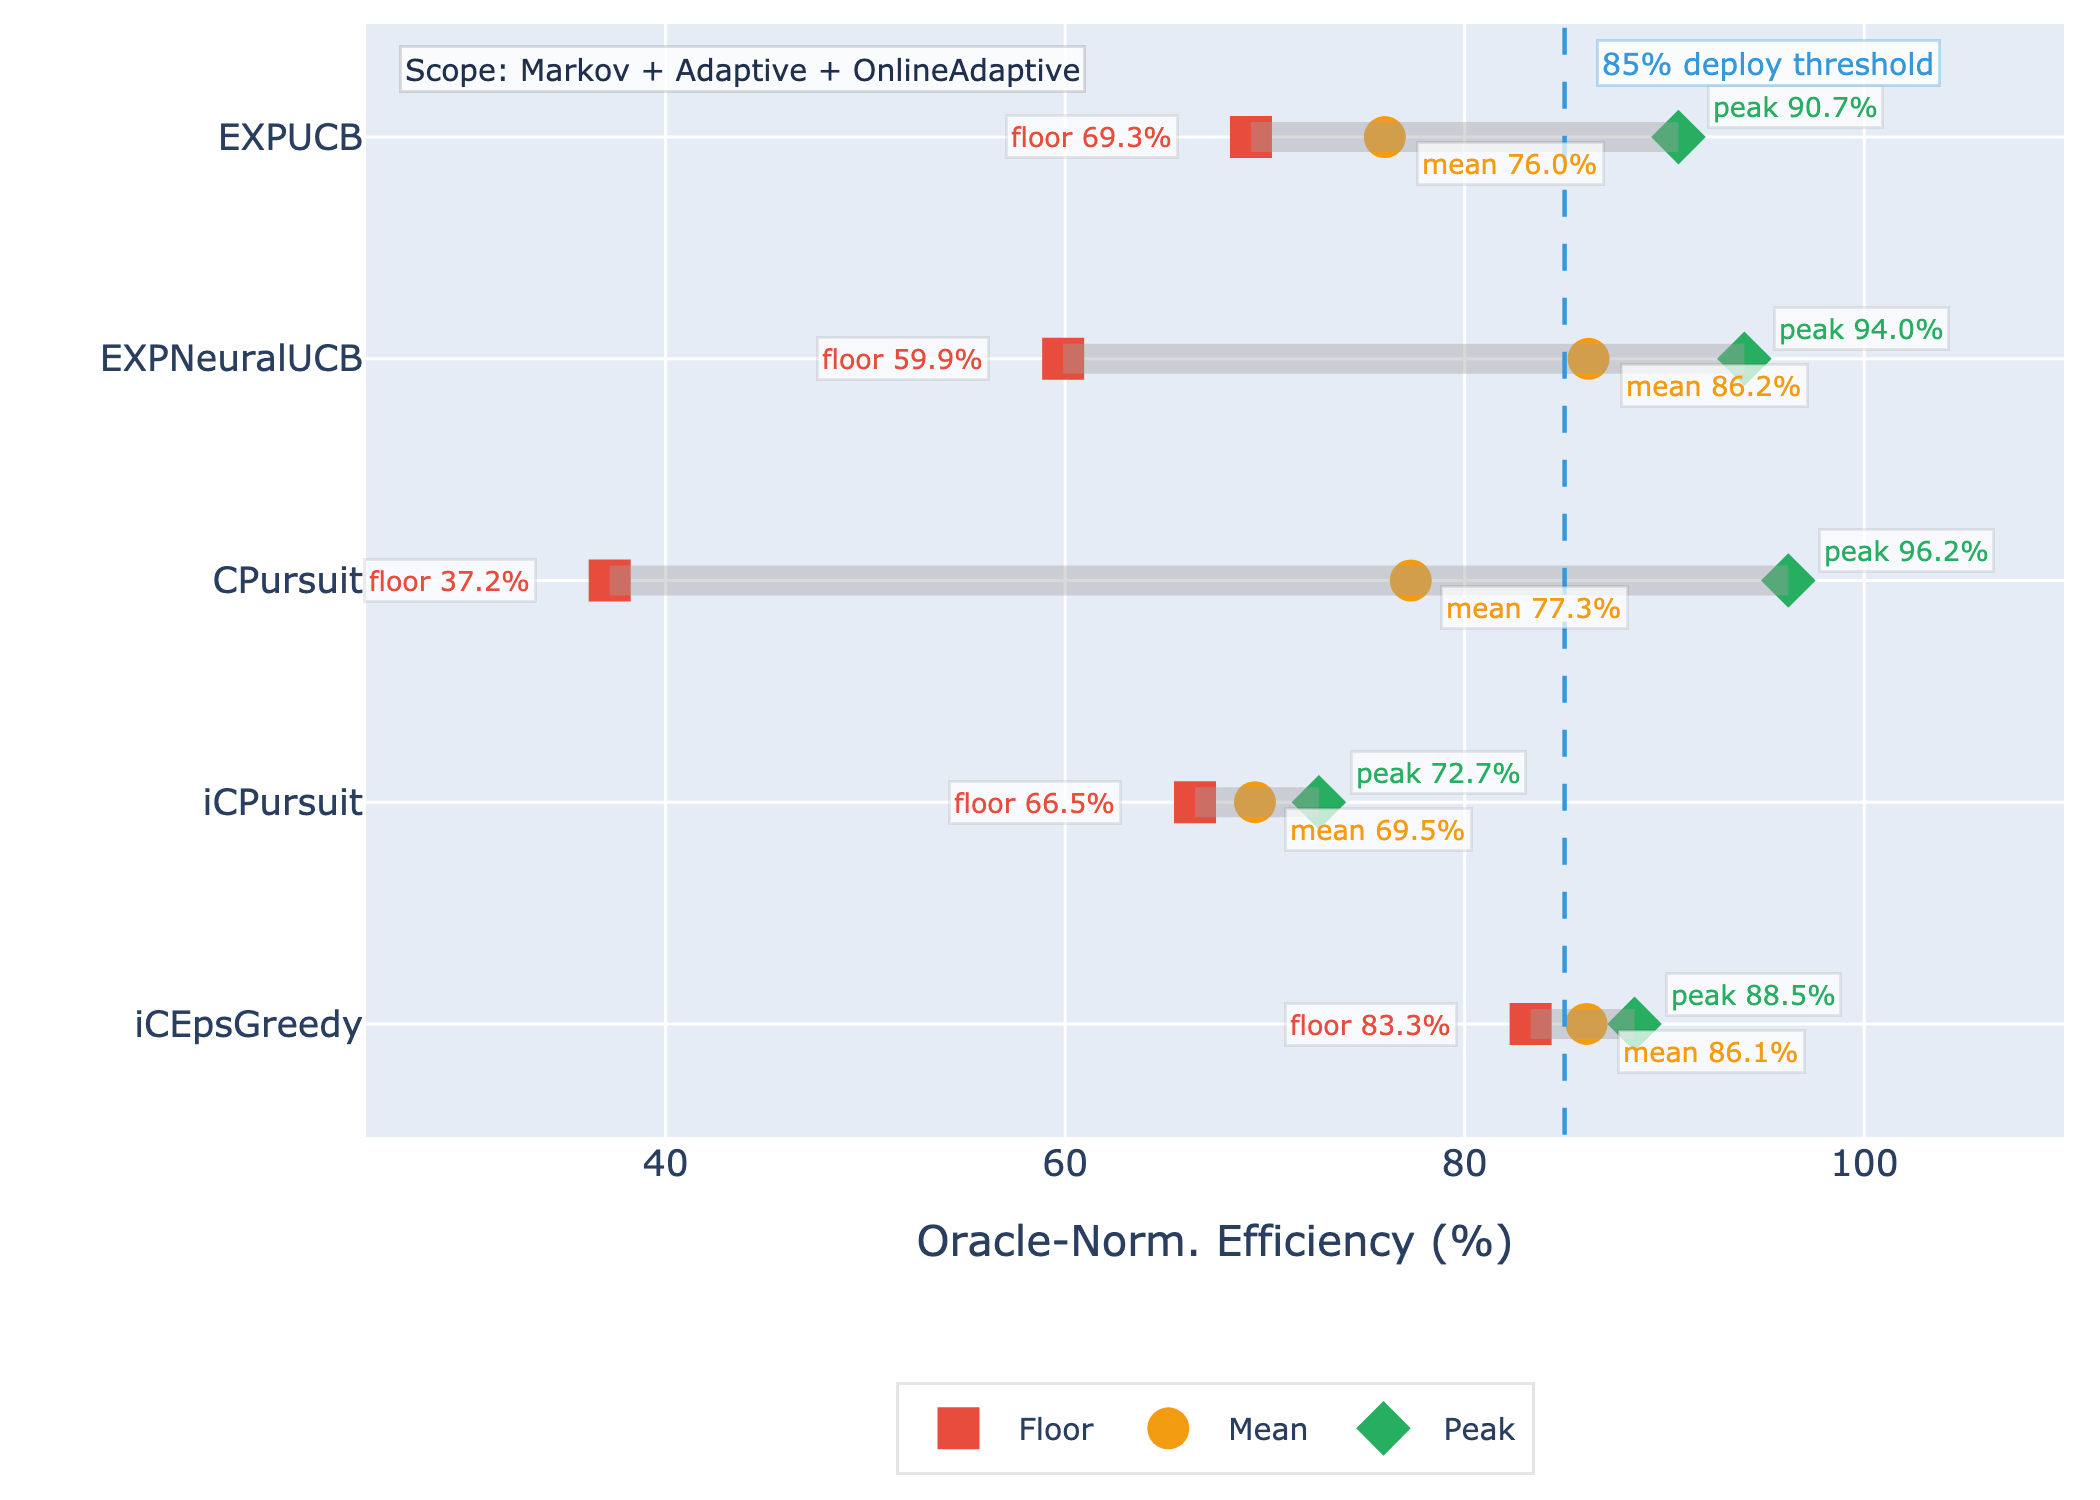
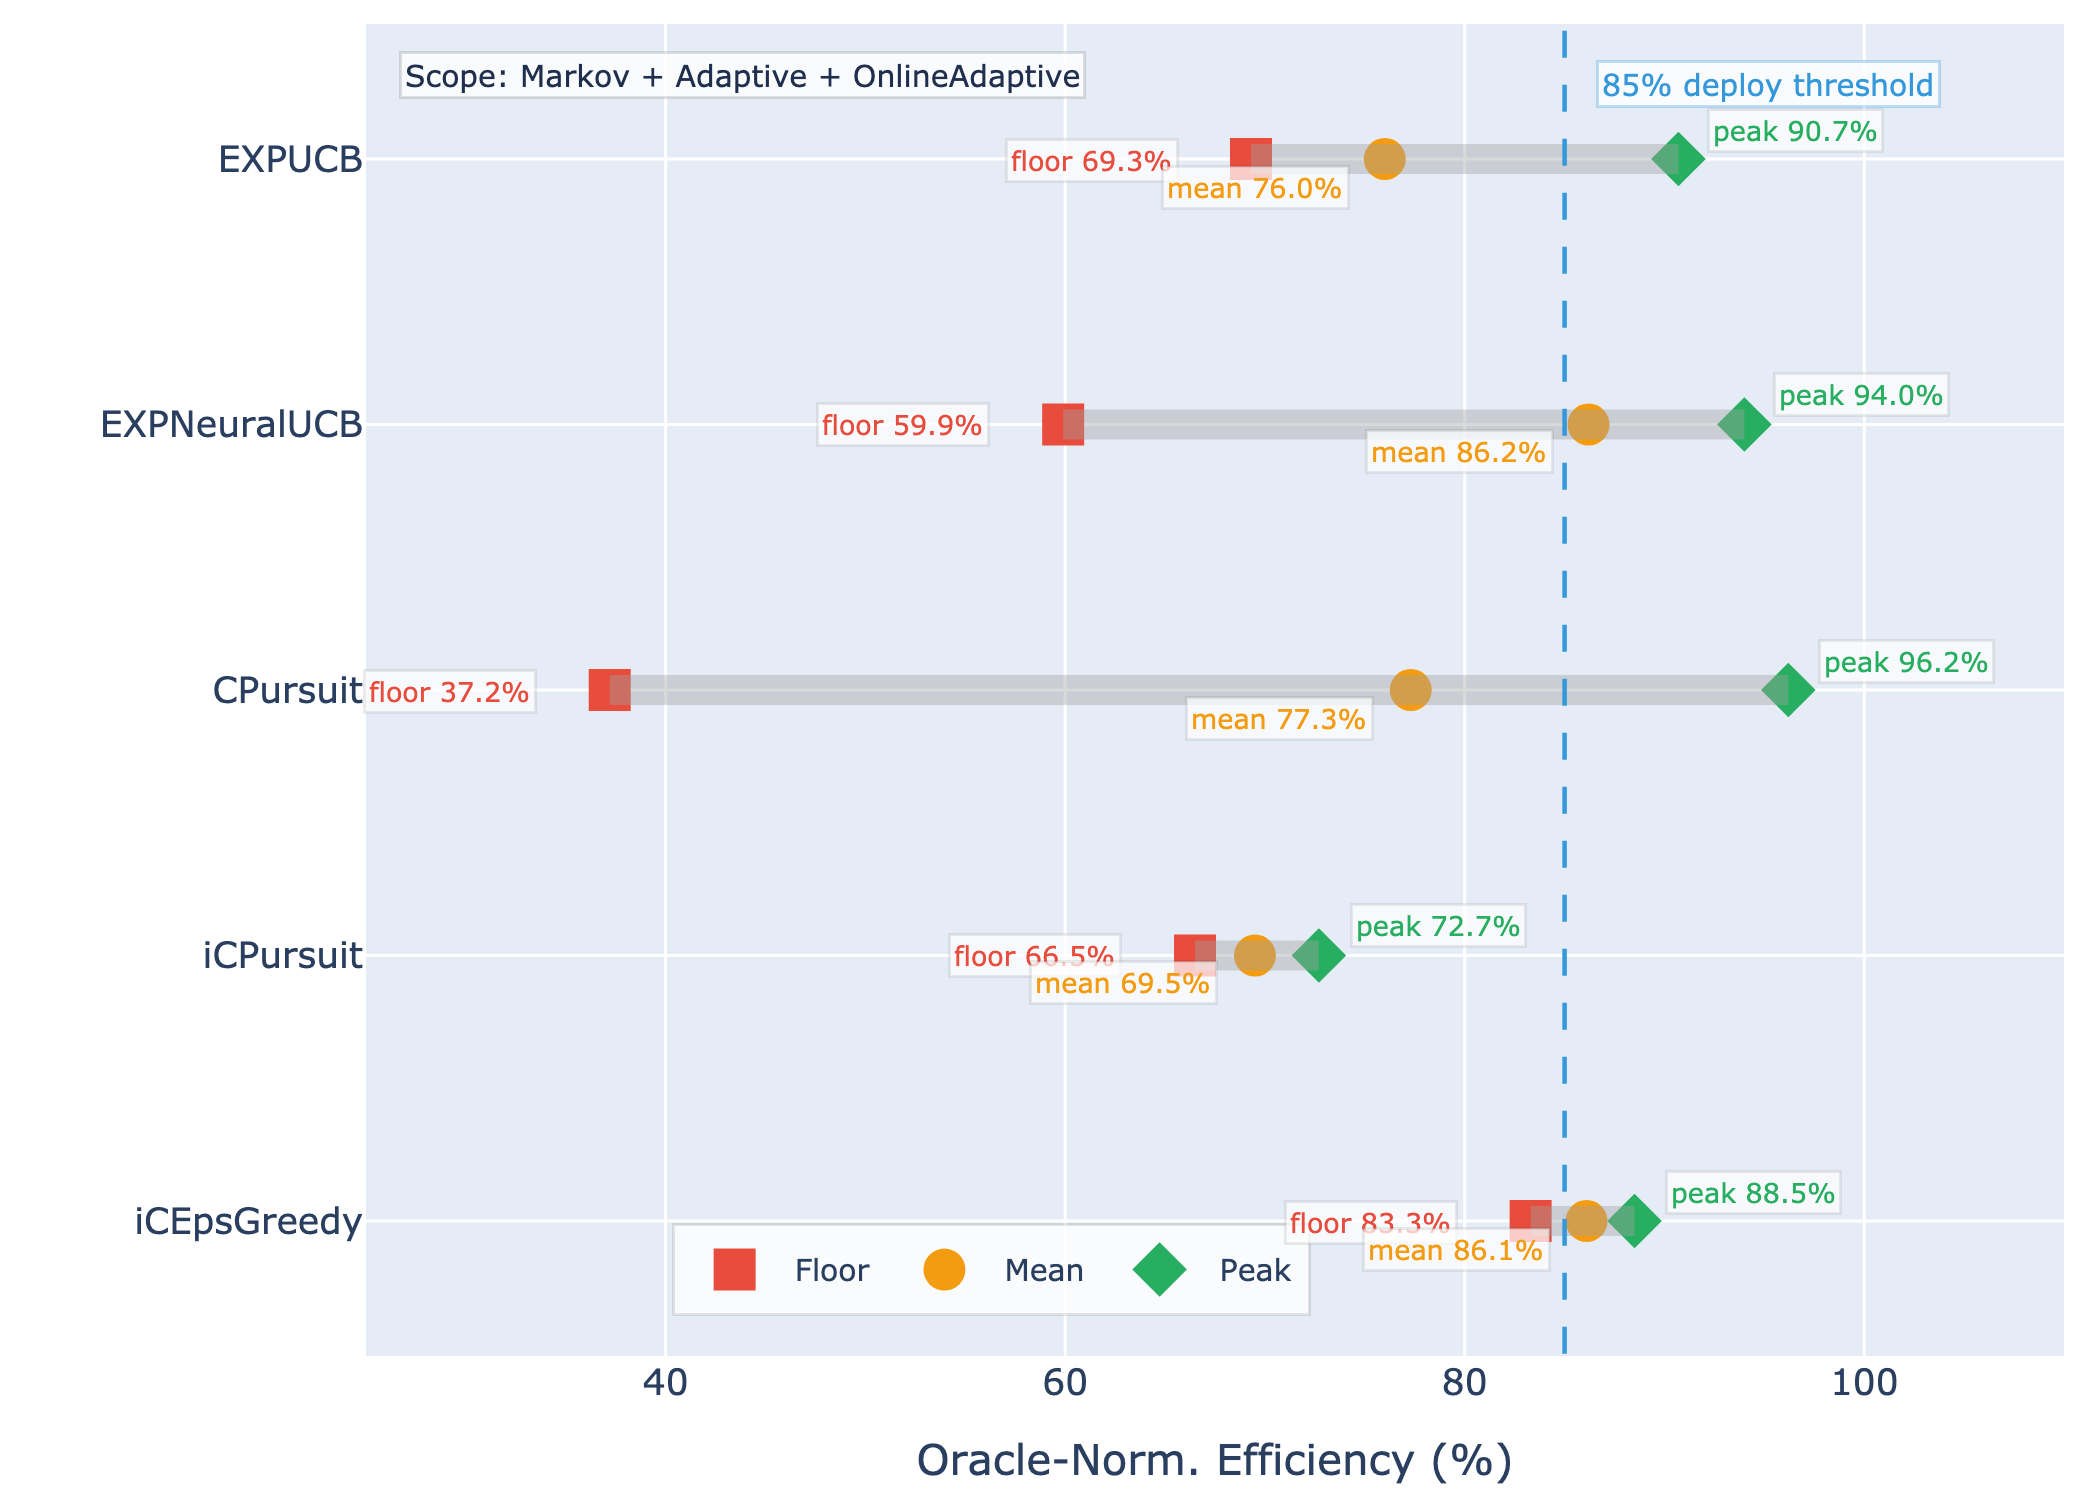
Surgically correct ICNP figure labels

diff --git a/figures/icnp-exported-assets/build_G8_G9.py b/figures/icnp-exported-assets/build_G8_G9.py
@@ -34,6 +34,11 @@ OUT_PANEL_D = (
     / "icnp"
     / "ICNP-CODE-033_g9_network_gap_analysis_panel_d_rq1_algorithm_tier_separation_stochastic.png"
 )
+OUT_PANEL_C = (
+    SCRIPT_DIR.parent
+    / "icnp"
+    / "ICNP-CODE-032_g9_network_gap_analysis_panel_c_oracle_gap_context_vs_exp3_by_scenario_c.png"
+)
 OUT_PANEL_F = (
     SCRIPT_DIR.parent
     / "icnp"
@@ -150,6 +155,10 @@ def path_p(hops, total_q, pe=1.5e-4):
 
 def panel_label(ax, letter, title, fs=11):
     ax.text(-0.10,1.07,letter,transform=ax.transAxes,fontsize=14,fontweight='bold',va='top')
+
+
+def panel_subtitle(ax, title):
+    ax.set_title(title, fontsize=10.4, fontweight='bold', pad=8)
 
 
 def label_box_medians(ax, positions, datasets, colors, *, dy=0.6):
@@ -328,6 +337,38 @@ def draw_scenario_penalty_panel(ax, *, include_panel_label=True):
         panel_label(ax,'G','Scenario Penalty vs Baseline by Algorithm & Threat')
 
 
+def draw_oracle_gap_panel(ax, *, include_panel_label=True):
+    x3=np.arange(len(SCEN_ORDER)); w3=0.18
+    gap_pairs=[('Context(T)',[100-v for v in CTX_T],C['T']),
+               ('Context(Tb)',[100-v for v in CTX_TB],'#72b7b2'),
+               ('EXP3(T)',[100-v for v in EXP_T],C['EXP3']),
+               ('EXP3(Tb)',[100-v for v in EXP_TB],'#d4730a')]
+    for (lbl,gaps,col),off in zip(gap_pairs,[-1.5,-0.5,0.5,1.5]):
+        bars = ax.bar(x3+off*w3,gaps,width=w3*0.88,color=col,alpha=0.85,label=lbl,edgecolor='white',lw=0.6)
+        for bar, gap in zip(bars, gaps):
+            ax.text(
+                bar.get_x() + bar.get_width() / 2,
+                gap + 0.35,
+                f'{gap:.1f}',
+                ha='center',
+                va='bottom',
+                fontsize=6.6,
+                color='#111111',
+                fontweight='bold',
+                zorder=7,
+                bbox=dict(boxstyle='round,pad=0.08', facecolor='white', alpha=0.74, edgecolor='none'),
+            )
+    ax.axhline(15,color=C['THRESH'],ls='--',lw=1.2,alpha=0.7)
+    ax.set_xticks(x3); ax.set_xticklabels(SCEN_ORDER,fontsize=9,rotation=10,ha='right')
+    ax.set_ylabel('Oracle Gap (pp)')
+    ax.legend(fontsize=6.8,ncol=2,frameon=True,framealpha=0.88,loc='upper right',bbox_to_anchor=(0.98,0.92),columnspacing=0.9,handlelength=1.1)
+    ax.set_facecolor('#f9f9f9')
+    ax.text(0.02,0.82,'Context(T) cuts the Stochastic gap by 8.5 vs EXP3(T)',transform=ax.transAxes,ha='left',va='top',fontsize=8,color='#555',bbox=dict(boxstyle='round,pad=0.25',facecolor='white',alpha=0.75,edgecolor='none'))
+    ax.text(0.98,0.92,'Lower is better',transform=ax.transAxes,ha='right',va='top',fontsize=8,color='#555',bbox=dict(boxstyle='round,pad=0.25',facecolor='white',alpha=0.75,edgecolor='none'))
+    if include_panel_label:
+        panel_label(ax,'C','Oracle Gap: Context vs EXP3 by Scenario & Capacity')
+
+
 def draw_cross_testbed_panel(ax, *, include_panel_label=True):
     tl=list(TESTBED_EFF.keys()); tv=list(TESTBED_EFF.values())
     tc9=[C['P2'],C['P7'],C['P12'],C['P8']]
@@ -431,6 +472,7 @@ def build_G8():
     fam_handles=[mpatches.Patch(color=col,alpha=0.82,label=fam) for fam,col in zip(fams,fc)]
     axA.legend(handles=fam_handles,loc='upper right',ncol=2,frameon=True,framealpha=0.88,fontsize=8,title='Family')
     panel_label(axA,'A','Oracle-Gap Distribution by Model Family')
+    panel_subtitle(axA, 'Oracle-gap distribution')
 
     # B — grouped box: capacity paradox
     n=5; pos_T=[i*2.6+0.45 for i in range(n)]; pos_Tb=[i*2.6+1.15 for i in range(n)]
@@ -456,15 +498,15 @@ def build_G8():
     axB.legend(handles=[phT,phTb],loc='lower left',bbox_to_anchor=(0.01,0.02),ncol=2,frameon=True,framealpha=0.88,columnspacing=0.8,handlelength=1.1)
     axB.set_facecolor('#f9f9f9')
     panel_label(axB,'B','Capacity Paradox: Replay Scaling Δ by Scenario & Semantic')
+    panel_subtitle(axB, 'Replay drop/recovery')
 
     # C — grouped bar: allocator × scenario
     anames=['Fixed','DynamicUCB','Thompson','Random']
     acols=[C['FIXED'],C['DUB'],C['THOM'],C['RAND']]
     x=np.arange(5); w=0.18; offs=np.array([-1.5,-0.5,0.5,1.5])*w
     for ai,(an,ac) in enumerate(zip(anames,acols)):
-        bars = axC.bar(x+offs[ai],ALLOC_SCEN_EFF[an],width=w*0.88,color=ac,alpha=0.85,
-                       label=an,edgecolor='white',lw=0.6)
-        label_bar_values_inside(axC, bars, suffix='%', text_color='white', y_padding=1.2)
+        axC.bar(x+offs[ai],ALLOC_SCEN_EFF[an],width=w*0.88,color=ac,alpha=0.85,
+                label=an,edgecolor='white',lw=0.6)
     axC.axhline(85,color=C['THRESH'],ls='--',lw=1.2,alpha=0.7)
     axC.set_xticks(x); axC.set_xticklabels(SCENARIOS,fontsize=9.5)
     axC.set_ylim(55,105); axC.set_ylabel('Oracle-Norm. Efficiency (%)')
@@ -474,9 +516,11 @@ def build_G8():
              bbox=dict(boxstyle='round,pad=0.22',facecolor='white',alpha=0.78,edgecolor='none'))
     axC.set_facecolor('#f9f9f9')
     panel_label(axC,'C','Allocator Efficiency per Scenario (iCPursuitNeuralUCB)')
+    panel_subtitle(axC, 'Allocator efficiency')
 
     # D — context-capacity detail replacing duplicate cross-testbed content
     draw_context_capacity_panel(axD)
+    panel_subtitle(axD, 'Context-capacity effects')
 
     fig.subplots_adjust(top=0.96)
     fig.text(0.5,-0.008,
@@ -532,33 +576,7 @@ def build_G9():
     panel_label(ax2,'B','Qubit Budget per Path × Allocator (Total=35)')
 
     # C: Oracle-gap bars
-    x3=np.arange(len(SCEN_ORDER)); w3=0.18
-    gap_pairs=[('Context(T)',[100-v for v in CTX_T],C['T']),
-               ('Context(Tb)',[100-v for v in CTX_TB],'#72b7b2'),
-               ('EXP3(T)',[100-v for v in EXP_T],C['EXP3']),
-               ('EXP3(Tb)',[100-v for v in EXP_TB],'#d4730a')]
-    for (lbl,gaps,col),off in zip(gap_pairs,[-1.5,-0.5,0.5,1.5]):
-        bars = ax3.bar(x3+off*w3,gaps,width=w3*0.88,color=col,alpha=0.85,label=lbl,edgecolor='white',lw=0.6)
-        for bar, gap in zip(bars, gaps):
-            ax3.text(
-                bar.get_x() + bar.get_width() / 2,
-                max(gap - 0.9, gap * 0.58),
-                f'{gap:.1f}pp',
-                ha='center',
-                va='top',
-                fontsize=6.6,
-                color='white',
-                fontweight='bold',
-                zorder=7,
-            )
-    ax3.axhline(15,color=C['THRESH'],ls='--',lw=1.2,alpha=0.7)
-    ax3.set_xticks(x3); ax3.set_xticklabels(SCEN_ORDER,fontsize=9,rotation=10,ha='right')
-    ax3.set_ylabel('Oracle Gap (pp)')
-    ax3.legend(fontsize=6.8,ncol=2,frameon=True,framealpha=0.88,loc='upper right',bbox_to_anchor=(0.98,0.92),columnspacing=0.9,handlelength=1.1)
-    ax3.set_facecolor('#f9f9f9')
-    ax3.text(0.02,0.82,'Context(T) cuts the Stochastic gap by 8.5pp vs EXP3(T)',transform=ax3.transAxes,ha='left',va='top',fontsize=8,color='#555',bbox=dict(boxstyle='round,pad=0.25',facecolor='white',alpha=0.75,edgecolor='none'))
-    ax3.text(0.98,0.92,'Lower is better',transform=ax3.transAxes,ha='right',va='top',fontsize=8,color='#555',bbox=dict(boxstyle='round,pad=0.25',facecolor='white',alpha=0.75,edgecolor='none'))
-    panel_label(ax3,'C','Oracle Gap: Context vs EXP3 by Scenario & Capacity')
+    draw_oracle_gap_panel(ax3)
 
     # D: RQ1 lollipop
     tier_colors={'Tier1':'#2ca02c','Tier2':'#f28e2b','Tier3':'#e63946'}
@@ -673,6 +691,17 @@ def build_rq1_tier_panel():
     print(f"Wrote {OUT_PANEL_D}")
 
 
+def build_oracle_gap_panel():
+    base_style()
+    fig, ax = plt.subplots(figsize=(7.64, 4.58), dpi=200)
+    fig.patch.set_facecolor('white')
+    draw_oracle_gap_panel(ax, include_panel_label=False)
+    fig.subplots_adjust(left=0.08, right=0.985, top=0.97, bottom=0.16)
+    fig.savefig(OUT_PANEL_C, dpi=200, facecolor='white')
+    plt.close(fig)
+    print(f"Wrote {OUT_PANEL_C}")
+
+
 def build_capacity_all_configs_panel():
     base_style()
     fig, ax = plt.subplots(figsize=(7.64, 4.585), dpi=200)
@@ -710,12 +739,14 @@ if __name__ == "__main__":
     parser = argparse.ArgumentParser(description="Build ICNP G8/G9 result figures.")
     parser.add_argument(
         "--only",
-        choices=["all", "panel-d", "panel-f", "panel-g", "panel-h", "panel-i"],
+        choices=["all", "panel-c", "panel-d", "panel-f", "panel-g", "panel-h", "panel-i"],
         default="all",
         help="Build all figures or only one manuscript-facing labeled panel.",
     )
     args = parser.parse_args()
-    if args.only == "panel-d":
+    if args.only == "panel-c":
+        build_oracle_gap_panel()
+    elif args.only == "panel-d":
         build_rq1_tier_panel()
     elif args.only == "panel-f":
         build_capacity_all_configs_panel()
@@ -728,6 +759,7 @@ if __name__ == "__main__":
     else:
         build_G8()
         build_G9()
+        build_oracle_gap_panel()
         build_rq1_tier_panel()
         build_capacity_all_configs_panel()
         build_scenario_penalty_panel()

diff --git a/figures/icnp_figures/icnp_graphs.py b/figures/icnp_figures/icnp_graphs.py
@@ -76,6 +76,10 @@ fig1.add_annotation(x='s=2', y=88.0, text='recovery +6.0 pp',
                     font=dict(color='#27ae60', size=11),
                     arrowcolor='#27ae60',
                     bgcolor='rgba(255,255,255,0.80)')
+fig1.add_shape(type='rect', x0=0.72, x1=1.28, y0=84.2, y1=89.7,
+               fillcolor='rgba(231,76,60,0.08)', line_width=0, layer='below')
+fig1.add_shape(type='rect', x0=1.72, x1=2.28, y0=84.2, y1=91.4,
+               fillcolor='rgba(39,174,96,0.08)', line_width=0, layer='below')
 fig1.add_shape(type='line', x0='s=1', x1='s=1.5', y0=89.2, y1=84.9,
                line=dict(color='rgba(231,76,60,0.55)', width=7), layer='below')
 fig1.add_shape(type='line', x0='s=1.5', x1='s=2', y0=84.9, y1=90.8,
@@ -126,7 +130,7 @@ fig2.add_trace(go.Scatter(
 for i, algo in enumerate(algos):
     label_specs = [
         (floor_v[i], f"floor {floor_v[i]:.1f}%", '#e74c3c', -24, 'right'),
-        (mean_v[i], f"mean {mean_v[i]:.1f}%", '#f39c12', 10, 'left'),
+        (mean_v[i], f"mean {mean_v[i]:.1f}%", '#f39c12', -12, 'right'),
         (peak_v[i], f"peak {peak_v[i]:.1f}%", '#27ae60', 10, 'left'),
     ]
     for x_value, label, color, xshift, xanchor in label_specs:
@@ -161,8 +165,8 @@ fig2.add_annotation(x=0.02, y=0.98, xref='paper', yref='paper',
                     borderwidth=1)
 
 fig2.update_layout(
-    margin=dict(t=8, r=12, b=82, l=66, pad=0),
-    legend=in_figure_legend(y=-0.22, yanchor='top'),
+    margin=dict(t=8, r=12, b=44, l=66, pad=0),
+    legend=in_figure_legend(x=0.18, y=0.03, xanchor='left', yanchor='bottom'),
     xaxis_range=[25, 110],
 )
 fig2.update_xaxes(title_text="Oracle-Norm. Efficiency (%)")

diff --git a/ICNP_VENUE_PREP/ACTIVE_FEEDBACK_RESOLUTION_LOG.md b/ICNP_VENUE_PREP/ACTIVE_FEEDBACK_RESOLUTION_LOG.md
@@ -7,6 +7,7 @@ This log records feedback-resolution batches applied to the active ICNP venue dr
 - **Owning files changed:** `figures/icnp-exported-assets/build_G8_G9.py`, `figures/icnp_figures/icnp_graphs.py`, `figures/icnp_graphs/code_and_plots/script.py`, `ICNP_VENUE_PREP/RESULTS_VALIDATED_STAGING.tex`, `ICNP_VENUE_PREP/APPENDIX_DIAGNOSTIC_FIGURES.tex`
 - **Regenerated assets:** `figures/icnp/ICNP-CODE-024_g8_advanced_4panel_grouped_full_figure.png`, `ICNP-CODE-033`, `ICNP-CODE-035`, `ICNP-CODE-036`, `ICNP-CODE-037`, `ICNP-CODE-038`, `ICNP-CODE-039`, `ICNP-CODE-040`, `ICNP-CODE-041`, and `ICNP-CODE-056`
 - **Reason for batching:** The May 21 transcript prioritized image-internal fixes before broad formatting. This batch updates generated figures and only touches nearby LaTeX when the image/caption alignment required it. No table values, result claims, or broad page-flow changes were made.
+- **Follow-up correction:** A surgical correction restored the Figure 6A drop/recovery shadows, moved the Figure 5 legend inside the plot near the 40--60 x-axis region, moved orange mean labels left, converted Contextual-vs-EXP3 numeric labels to black without repeated `pp`, and removed bar numbers from Figure 13C while adding short A--D panel subtitles.
 
 ### Resolved feedback / cleanup
 

diff --git a/ICNP_VENUE_PREP/BUILD_VALIDATION_LOG.md b/ICNP_VENUE_PREP/BUILD_VALIDATION_LOG.md
@@ -25,6 +25,7 @@ Observed outcome:
 
 - The image batch did not introduce missing-graphic errors or LaTeX build failures.
 - Figures 3, 4, 5, 6A, 6B, 7B, 8A, 8B, 10, and 13 now better expose the values or labels used by their captions.
+- A surgical follow-up corrected the Figure 5 legend placement and mean-label side, restored the Figure 6A drop/recovery shadows, cleaned the Contextual-vs-EXP3 numeric labels, and removed Figure 13C bar numbers while adding A--D panel subtitles.
 - Remaining LaTeX warnings are consistent with existing draft noise: underfull/overfull boxes, duplicate PDF-destination warnings, and appendix/floating behavior. No broad formatting fix was attempted in this image-first pass.
 
 ## Validation pass: source-level preflight after feedback cleanup
